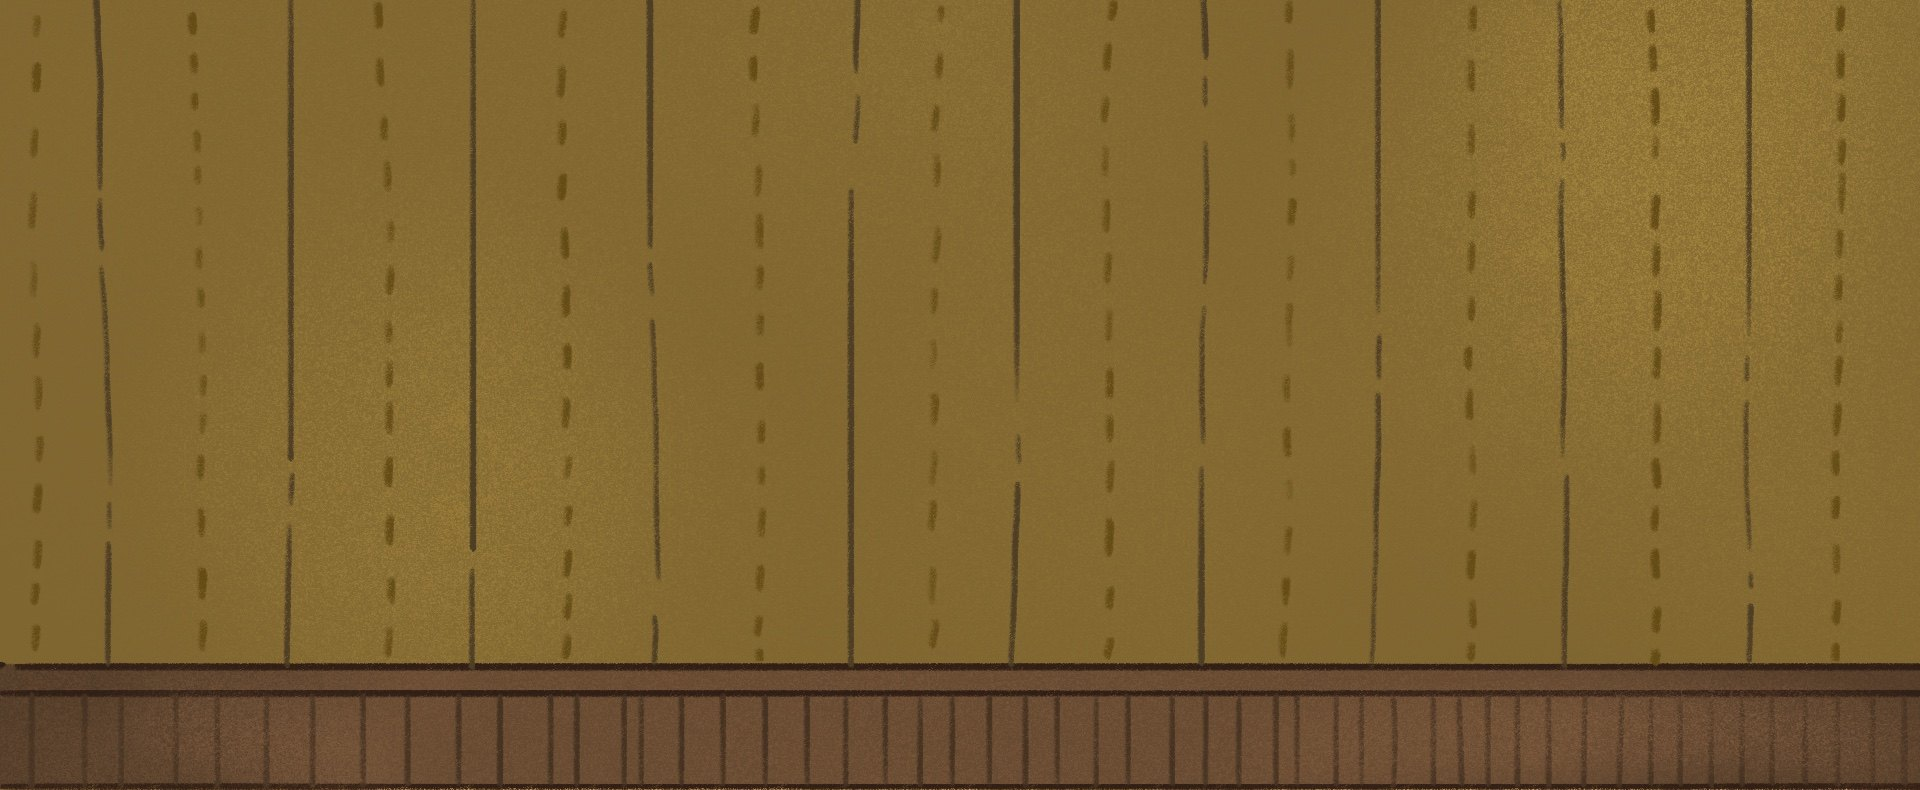
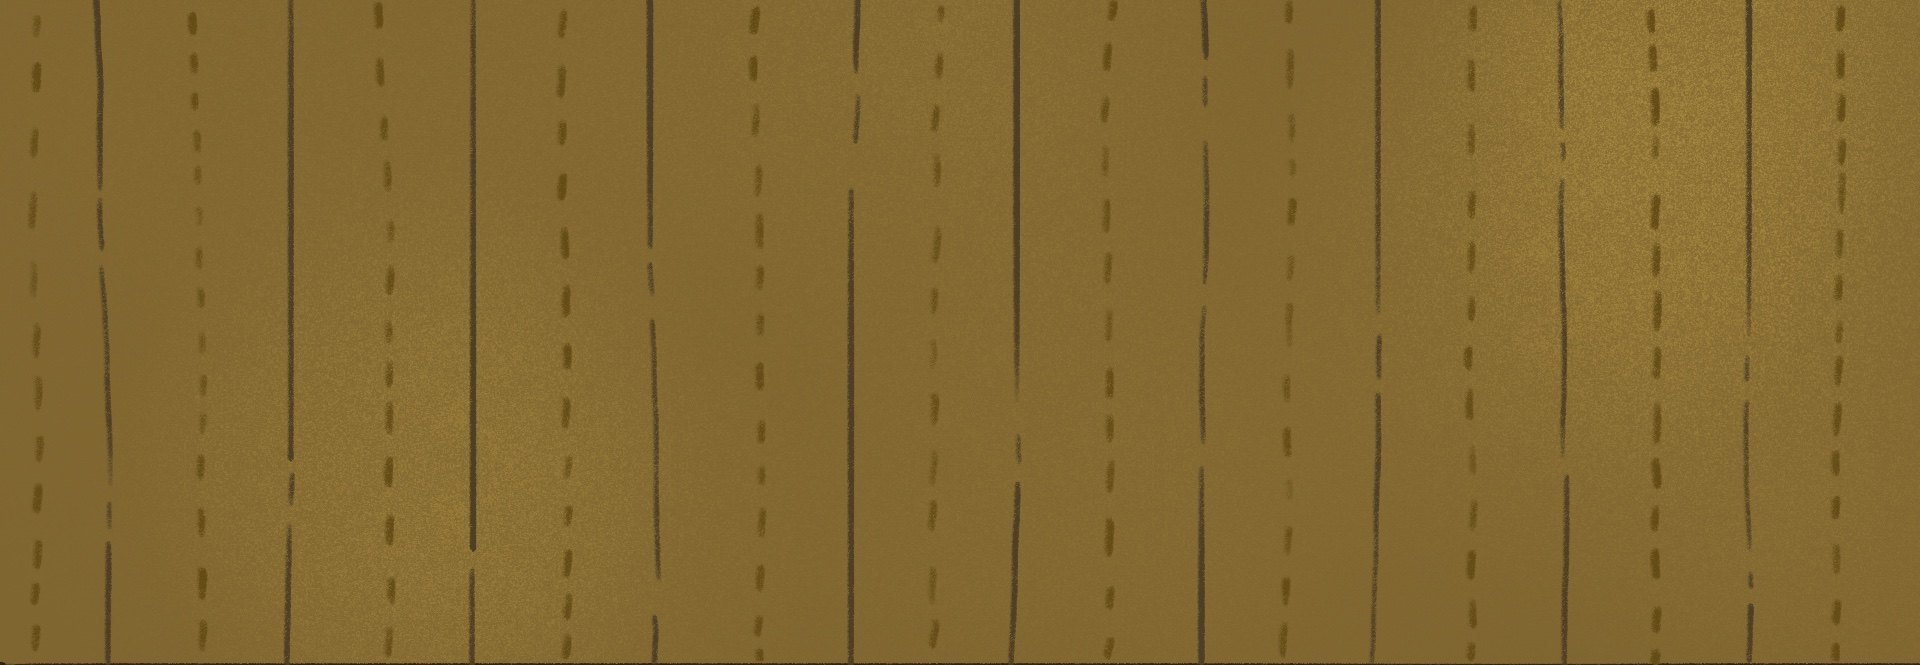
Musée : plinthe visible et suppression du visiteur (#63)
- La plinthe passe du bas du mur au haut de la bande de sol. Elle était
  jusqu'ici recouverte par le parquet ; elle marque maintenant la
  jonction entre le mur et le sol quel que soit le nombre de tableaux.
- Le personnage provisoire est retiré, en attendant Mira. Le panneau,
  désormais seul, s'aligne à droite.

Claude-Session: https://claude.ai/code/session_01BtaB1jaWDtbsoScgb48y47

diff --git a/styles.css b/styles.css
@@ -1964,23 +1964,17 @@ a.quick-btn:hover {
   width: auto;
 }
 
-/* le sol : le visiteur et le panneau */
+/* le sol : la plinthe, le parquet et le panneau */
 .museum-ground {
   position: relative;
   display: flex;
   align-items: flex-end;
-  justify-content: space-between;
+  justify-content: flex-end;
   gap: 1rem;
   margin: clamp(1.5rem, 4vw, 3rem) calc(-1 * clamp(1rem, 4vw, 3.5rem)) 0;
   padding: 0 clamp(1.5rem, 5vw, 4rem) clamp(0.75rem, 2vw, 1.5rem);
-  min-height: clamp(6rem, 14vw, 10rem);
+  min-height: clamp(7rem, 16vw, 11rem);
   background: url('photo/galerie-sol.jpg') bottom center / 100% 100% no-repeat;
-}
-
-.museum-visitor {
-  width: clamp(5rem, 11vw, 8.5rem);
-  height: auto;
-  filter: drop-shadow(0 8px 10px rgba(31, 30, 28, 0.18));
 }
 
 /* le panneau « suite de la visite » dessiné par Dana */
@@ -2071,5 +2065,5 @@ a.quick-btn:hover {
 @media (max-width: 720px) {
   .museum { padding: 2rem 1rem 0; }
   .museum-rooms { grid-template-columns: repeat(2, auto); --u: clamp(2.6rem, 11vw, 4.6rem); --h: 1.75; }
-  .museum-ground { min-height: clamp(4.5rem, 20vw, 7rem); }
+  .museum-ground { min-height: clamp(5.5rem, 24vw, 8rem); }
 }

diff --git a/index.html b/index.html
@@ -18,7 +18,7 @@
   <link rel="preconnect" href="https://fonts.gstatic.com" crossorigin>
   <link href="https://fonts.googleapis.com/css2?family=Jost:wght@300;400;500;600&display=swap" rel="stylesheet">
   <link href="https://api.fontshare.com/v2/css?f%5B%5D=comico@400&display=swap" rel="stylesheet">
-  <link rel="stylesheet" href="styles.css?v=31">
+  <link rel="stylesheet" href="styles.css?v=32">
 </head>
 <body class="page-home">
 
@@ -140,7 +140,6 @@
           </button>
       </div>
       <div class="museum-ground">
-        <img class="museum-visitor" src="photo/galerie-personnage.png" alt="" aria-hidden="true">
         <button class="museum-next" type="button" aria-label="Salle suivante" title="Salle suivante">
           <img class="museum-sign" src="photo/galerie-panneau.png" alt="Suite de la visite">
         </button>

diff --git a/commandes.html b/commandes.html
@@ -18,7 +18,7 @@
   <link rel="preconnect" href="https://fonts.gstatic.com" crossorigin>
   <link href="https://fonts.googleapis.com/css2?family=Jost:wght@300;400;500;600&display=swap" rel="stylesheet">
   <link href="https://api.fontshare.com/v2/css?f%5B%5D=comico@400&display=swap" rel="stylesheet">
-  <link rel="stylesheet" href="styles.css?v=31">
+  <link rel="stylesheet" href="styles.css?v=32">
 </head>
 <body class="page-commandes">
 

diff --git a/portfolio.html b/portfolio.html
@@ -18,7 +18,7 @@
   <link rel="preconnect" href="https://fonts.gstatic.com" crossorigin>
   <link href="https://fonts.googleapis.com/css2?family=Jost:wght@300;400;500;600&display=swap" rel="stylesheet">
   <link href="https://api.fontshare.com/v2/css?f%5B%5D=comico@400&display=swap" rel="stylesheet">
-  <link rel="stylesheet" href="styles.css?v=31">
+  <link rel="stylesheet" href="styles.css?v=32">
 </head>
 <body class="page-portfolio">
 

diff --git a/ateliers.html b/ateliers.html
@@ -18,7 +18,7 @@
   <link rel="preconnect" href="https://fonts.gstatic.com" crossorigin>
   <link href="https://fonts.googleapis.com/css2?family=Jost:wght@300;400;500;600&display=swap" rel="stylesheet">
   <link href="https://api.fontshare.com/v2/css?f%5B%5D=comico@400&display=swap" rel="stylesheet">
-  <link rel="stylesheet" href="styles.css?v=31">
+  <link rel="stylesheet" href="styles.css?v=32">
 </head>
 <body class="page-ateliers">
 

diff --git a/boutique.html b/boutique.html
@@ -18,7 +18,7 @@
   <link rel="preconnect" href="https://fonts.gstatic.com" crossorigin>
   <link href="https://fonts.googleapis.com/css2?family=Jost:wght@300;400;500;600&display=swap" rel="stylesheet">
   <link href="https://api.fontshare.com/v2/css?f%5B%5D=comico@400&display=swap" rel="stylesheet">
-  <link rel="stylesheet" href="styles.css?v=31">
+  <link rel="stylesheet" href="styles.css?v=32">
 </head>
 <body class="page-boutique">
 

diff --git a/mail-club.html b/mail-club.html
@@ -18,7 +18,7 @@
   <link rel="preconnect" href="https://fonts.gstatic.com" crossorigin>
   <link href="https://fonts.googleapis.com/css2?family=Jost:wght@300;400;500;600&display=swap" rel="stylesheet">
   <link href="https://api.fontshare.com/v2/css?f%5B%5D=comico@400&display=swap" rel="stylesheet">
-  <link rel="stylesheet" href="styles.css?v=31">
+  <link rel="stylesheet" href="styles.css?v=32">
 </head>
 <body class="page-mailclub">
 

diff --git a/apropos.html b/apropos.html
@@ -18,7 +18,7 @@
   <link rel="preconnect" href="https://fonts.gstatic.com" crossorigin>
   <link href="https://fonts.googleapis.com/css2?family=Jost:wght@300;400;500;600&display=swap" rel="stylesheet">
   <link href="https://api.fontshare.com/v2/css?f%5B%5D=comico@400&display=swap" rel="stylesheet">
-  <link rel="stylesheet" href="styles.css?v=31">
+  <link rel="stylesheet" href="styles.css?v=32">
 </head>
 <body class="page-apropos">
 

diff --git a/cgv.html b/cgv.html
@@ -18,7 +18,7 @@
   <link rel="preconnect" href="https://fonts.gstatic.com" crossorigin>
   <link href="https://fonts.googleapis.com/css2?family=Jost:wght@300;400;500;600&display=swap" rel="stylesheet">
   <link href="https://api.fontshare.com/v2/css?f%5B%5D=comico@400&display=swap" rel="stylesheet">
-  <link rel="stylesheet" href="styles.css?v=31">
+  <link rel="stylesheet" href="styles.css?v=32">
 </head>
 <body class="page-legal">
 

diff --git a/confidentialite.html b/confidentialite.html
@@ -18,7 +18,7 @@
   <link rel="preconnect" href="https://fonts.gstatic.com" crossorigin>
   <link href="https://fonts.googleapis.com/css2?family=Jost:wght@300;400;500;600&display=swap" rel="stylesheet">
   <link href="https://api.fontshare.com/v2/css?f%5B%5D=comico@400&display=swap" rel="stylesheet">
-  <link rel="stylesheet" href="styles.css?v=31">
+  <link rel="stylesheet" href="styles.css?v=32">
 </head>
 <body class="page-legal">
 

diff --git a/mentions-legales.html b/mentions-legales.html
@@ -18,7 +18,7 @@
   <link rel="preconnect" href="https://fonts.gstatic.com" crossorigin>
   <link href="https://fonts.googleapis.com/css2?family=Jost:wght@300;400;500;600&display=swap" rel="stylesheet">
   <link href="https://api.fontshare.com/v2/css?f%5B%5D=comico@400&display=swap" rel="stylesheet">
-  <link rel="stylesheet" href="styles.css?v=31">
+  <link rel="stylesheet" href="styles.css?v=32">
 </head>
 <body class="page-legal">
 

diff --git a/retours.html b/retours.html
@@ -18,7 +18,7 @@
   <link rel="preconnect" href="https://fonts.gstatic.com" crossorigin>
   <link href="https://fonts.googleapis.com/css2?family=Jost:wght@300;400;500;600&display=swap" rel="stylesheet">
   <link href="https://api.fontshare.com/v2/css?f%5B%5D=comico@400&display=swap" rel="stylesheet">
-  <link rel="stylesheet" href="styles.css?v=31">
+  <link rel="stylesheet" href="styles.css?v=32">
 </head>
 <body class="page-legal">
 
